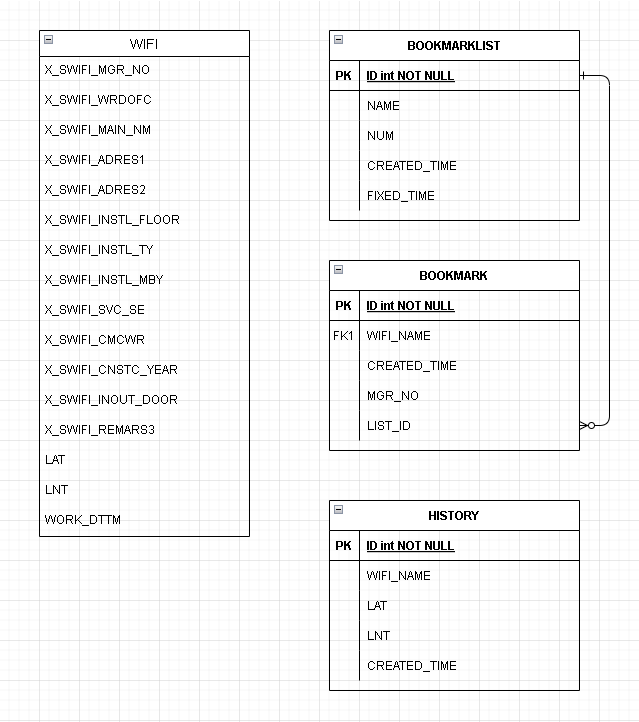
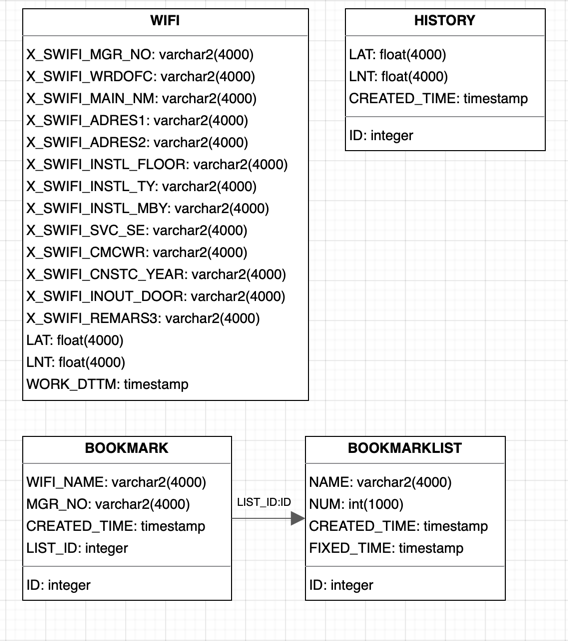
#125 erd파일 최종 수정 및 readme 최종 수정
이전 파일 삭제 및 새 파일로 교체

diff --git a/wifi/readme.md b/wifi/readme.md
@@ -30,9 +30,8 @@
 - 프론트엔드
     - HTML, CSS, Javascript
 - 데이터베이스
-    - SQLite
-    - ![img.png](erd.png)
-
+    - SQLite</br>
+![img.png](wifierd.png)
 ## 👾 프로젝트 설명 
 > 인증키는 git에 올리지 않아 clone 받아도 바로 사용 불가능. 인증키는 소중하니 따로 보관.</br>
   인증키를 내려받아 ApiExplorer에 28번째 줄 "인증키!!!" 부분에 넣기
